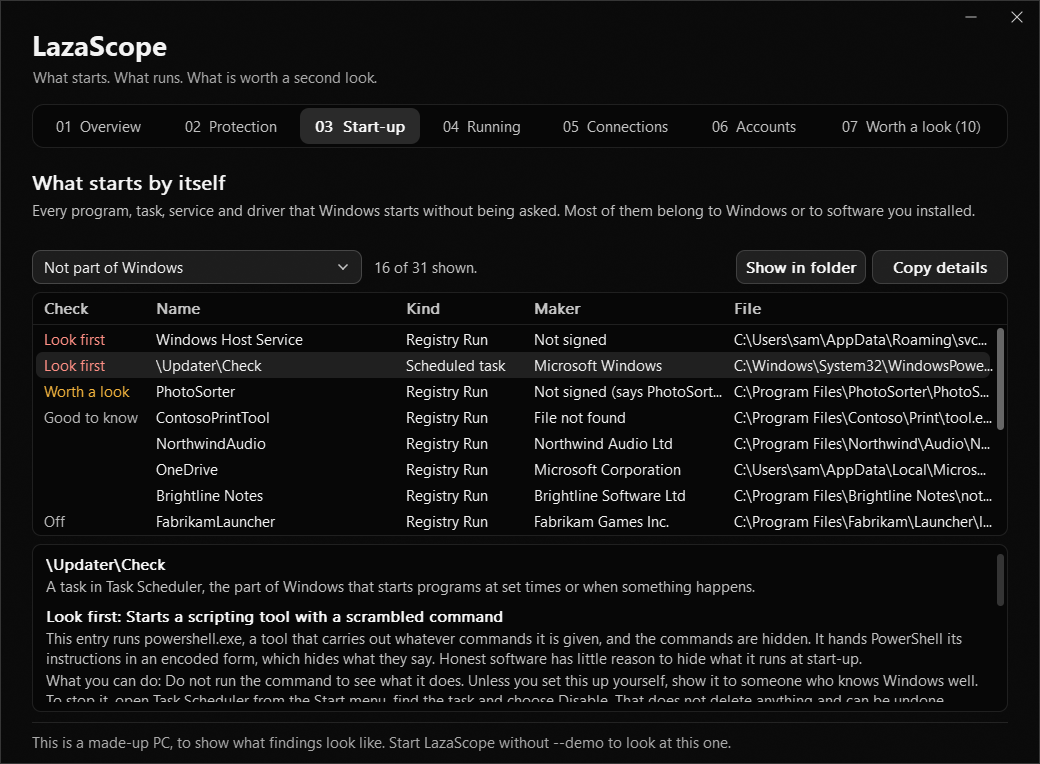
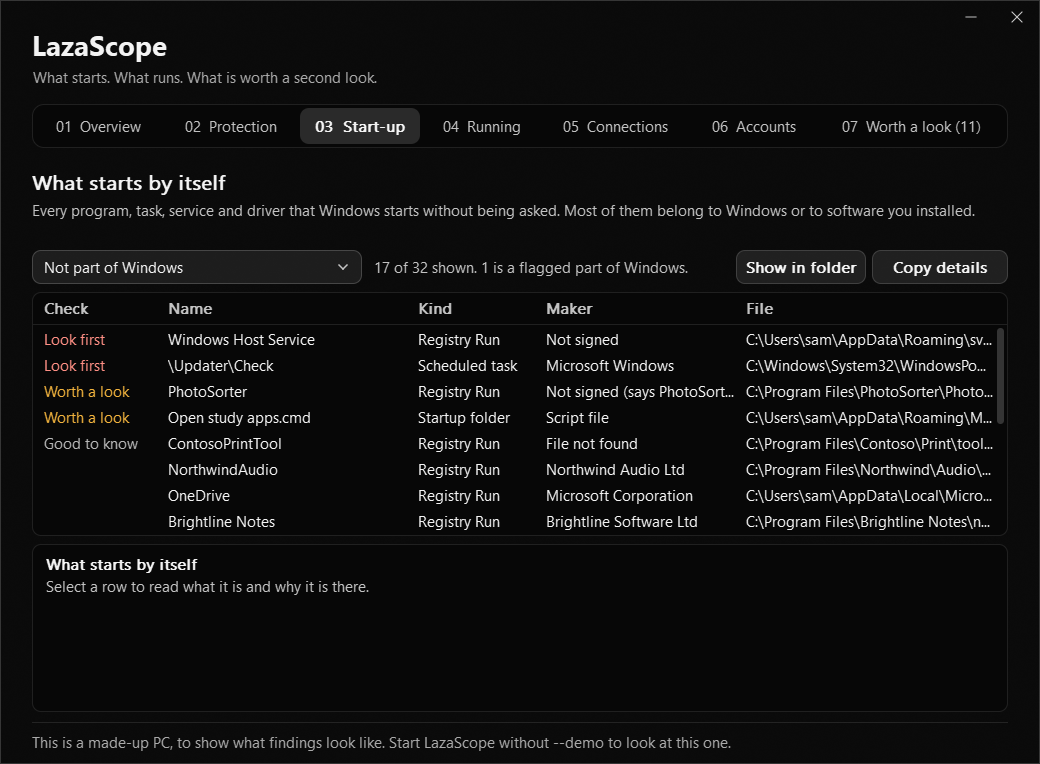
Bring the documents and screenshots up to the second round of checks
VALIDATION.md now holds the entry-for-entry comparison with Windows' own
tools, the second opinion on signatures from PowerShell, the eleven
planted items, the faults those checks found and what was done about
each, and where the testing still stops. The README, the usage guide,
the changelog and the release notes describe the script rule, the data
in the JSON report and the command-line tool's replies. The screenshots
are of the made-up PC as the final build shows it.

diff --git a/VALIDATION.md b/VALIDATION.md
@@ -4,71 +4,99 @@
 
 Both programs were compiled with Go 1.27.3 for `windows/amd64`, with CGO disabled, and run on Windows 10 Pro 22H2 (build 19045) without administrator rights.
 
+Both were then built a second time from nothing, with Go's cache of earlier work ignored (`go build -a`). The two builds of each program are byte for byte the same, which rules out a build spoiled by the PC it was made on.
+
 ### Automated tests
 
-- **The rules** are tested with made-up PCs. A healthy one, which holds a good many things that look a little odd and are fine, must produce no findings at all. About ninety single changes to it must each produce exactly the findings they should and no others. Roughly a third of those changes are cases that must stay quiet. A further test fails if any rule has no test that makes it fire.
+- **The rules** are tested with made-up PCs. A healthy one, which holds a good many things that look a little odd and are fine, must produce no findings at all. A hundred single changes to it must each produce exactly the findings they should and no others. A quarter of those changes are cases that must stay quiet. A further test fails if any of the 31 rules has no test that makes it fire.
 - **Every finding** produced in those tests is checked for its wording: it has a title, a reason and advice, it says which item it is about, and it never uses the word virus or infected. LazaScope reports reasons, not verdicts.
 - **The signature checker** is tested on real files: parts of Windows must come out as signed by Microsoft, with at least one of them found through a catalogue; the test program itself, which nobody signed, must come out as not signed; a copy of a signed program with one byte changed must fail; and a copy of a catalogue-signed program under another name must still be recognised, since a catalogue knows a file by its fingerprint and not by its name.
 - **Command reading**, which decides which file a start-up entry really runs, is tested on about forty commands: quoted and unquoted paths, paths with spaces, `rundll32`, `regsvr32`, PowerShell with and without a script file, `cmd /c start`, `conhost --headless`, `msiexec` and the forms drivers are recorded in.
-- **The pages** that the window and the report share are tested from the facts to the words on the row, and **the report** is tested for being whole in itself: no script, no link, nothing fetched. A start-up entry whose name is written to look like part of a web page must come out as text.
+- **The pages** that the window and the report share are tested from the facts to the words on the row. One test holds the overview to the lists: the number it gives for what is not part of Windows must be the number of rows the list shows under the view of that name.
+- **The report** is tested for being whole in itself: no script, no link, nothing fetched. A start-up entry whose name is written to look like part of a web page must come out as text. The data form is tested field by field, and a file name that does not end in `.html`, `.txt` or `.json` must be refused before anything is written.
 - **The made-up PC** shown by `--demo` goes through the whole program without Windows, and what it flags is fixed in a test.
-- **The window toolkit** is tested as in LazaScrub and LazaReplay, with added tests for the scrolling box of details and the three-coloured lights.
+- **A fault inside LazaScope** while it reads one part of the PC must not close the program. A test makes a reader fail half way and checks that the look carries on and that the part is reported as not read.
+- **The window toolkit** is tested as in LazaScrub and LazaReplay, with added tests for the scrolling box of details and the three-coloured lights. The views that narrow a list, and the count beside them, have tests of their own.
 
 ### Against Windows' own tools
 
-The lists were compared with what Windows itself reports on the same PC at the same time.
+Each list was compared, entry for entry, with what Windows itself reports on the same PC at the same moment: PowerShell's own commands for programs, tasks, services, drivers and start-up entries, and `netstat -ano` for the network.
 
-| List | LazaScope | Windows | Result |
+| List | LazaScope | Windows | Entry for entry |
 | --- | --- | --- | --- |
-| Scheduled tasks | 164 | 164 from `schtasks /query` | The same 164 names |
-| Automatic services | 82 | 82 from WMI | 81 in both. One is protected, and LazaScope says it could not read it. One is automatic in the registry and not in WMI |
-| Registry Run entries | 17 | 17 from `reg query` | The same entries, with the same 8 marked as switched off in Task Manager |
-| Startup folder | 1 shortcut | 1 file | The shortcut's target was read correctly |
-| Store app start-up tasks | 5 | 5 in the registry | The same, with the same on and off states |
-| Running programs | 353 | 354 from `tasklist` | The one more is the idle process, which is not a program and is left out |
-| Waiting TCP ports | 37 | 37 from `netstat -ano` | The same |
-| Open TCP connections | 90 | 90 from `netstat -ano` | The same |
-| UDP ports | 92 | 92 from `netstat -ano` | The same |
-| Disk encryption | 3 disks | 3 disks, from Explorer's own property | The same |
+| Running programs | 316 | 318 | 314 in both. The others are the comparison's own short-lived tools, started between the two readings |
+| The same, file of each program | | | The same for 162. Windows gave no answer for 148 that LazaScope found. 1 differs only in how the path is written |
+| The same, command line | | | The same for 163, different for none. LazaScope read 7 that Windows' command did not give |
+| The same, which program started it | | | Different for none |
+| TCP ports waited on | 37 | 37 | The same lines, none on one side only |
+| TCP connections in use | 69 | 69 | The same |
+| TCP connections opening or closing | 2 | 2 | The same |
+| UDP ports | 97 | 97 | The same |
+| Scheduled tasks | 164 | 164 | The same names. On or off differs for none. What each task runs is the same for all 164 |
+| Automatic services | 81 | 81 | 80 in both. One is protected, and LazaScope says it could not read it. One Windows reports with an unknown start setting. Running or not, and the file, differ for none |
+| Drivers that start by themselves | 101 | 100 | The same 100, with the same file and the same running state. The one more is a protected driver Windows' command leaves out |
+| Run entries and Startup folder | 18 | 16 | The same 16, with the same commands. The two more are in the 32-bit Run list, which the Windows command used does not read |
+| Disk encryption | 3 disks | 3 disks | The same, from Explorer's own property |
 
 Every running program had its file found, also the ones a program without administrator rights cannot open, because Windows will say where a program is by its number alone.
 
 ### Signatures
 
-The 365 different files behind the 423 start-up entries were checked in under three seconds, together with everything else. All but one came out as signed, most of them by Microsoft through a catalogue. The one unsigned file is a program built on that PC and set to start with Windows, which is exactly what the rule is for. Without the catalogue lookup, most of the Windows files in that list would have been reported as unsigned.
+The 373 different program files behind the start-up entries and the running programs were checked in under three seconds, together with everything else. 278 of them are parts of Windows, most of them signed through a catalogue. Without the catalogue lookup, those would have been reported as unsigned.
 
-Apps from the Microsoft Store bring their own catalogue, which is not in Windows' index. LazaScope looks in the app's own folder for it, and the Store apps on the test PC came out as signed.
+A sample of 165 of the files, taking every file that is not Windows' own and a spread of those that are, was given to PowerShell's own check (`Get-AuthenticodeSignature`) for a second opinion.
+
+| | Files |
+| --- | --- |
+| Same verdict from both | 162 |
+| LazaScope says signed, PowerShell says not signed | 3 |
+| LazaScope says not signed, PowerShell says signed | 0 |
+
+The three are programs of apps from the Microsoft Store. A Store app brings its own catalogue, which is not in Windows' index. LazaScope looks in the app's own folder for it and PowerShell does not.
+
+For 18 of the files the two name a different signer, and for 53 a different place. These are files that carry two signatures, one inside the file from its maker and one in a Windows catalogue. PowerShell reports the catalogue, LazaScope the one inside the file, because that one names who made it.
 
 ### Planted items
 
-`cmd/verify` plants seven harmless items that look suspicious, takes a look, and checks what was flagged. Everything it plants belongs to the account that runs it.
+`cmd/verify` plants eleven harmless items, takes a look, and checks what was said about each. Ten look suspicious and must be flagged. The eleventh does not, and must be listed and left alone. Everything it plants belongs to the account that runs it.
 
 | Planted | Flagged as |
 | --- | --- |
 | A copy of Notepad named `svchost.exe` in the temporary folder, with a line in the `Run` list | Named like a part of Windows but not where Windows keeps it. Starts from a temporary folder |
 | A copy of Notepad named `scvhost.exe`, with a line in the `Run` list | The same two, the first for a name one slip from `svchost` |
 | An unsigned program in the Downloads folder, with a line in the `Run` list | Starts from a download folder. Not signed |
+| The same program, with a line in the `RunOnce` list | The same two |
 | A `Run` line that points at a file that does not exist | Points at a file that is no longer there |
 | A `Run` line that runs the Command Prompt with its words broken up | Starts a scripting tool with a scrambled command |
 | A shortcut in the Startup folder to the unsigned program | Starts from a download folder. Not signed |
+| A batch file in the Startup folder | Starts a script by itself |
 | A copy of the Command Prompt named `lsass.exe`, running from the temporary folder | A running program named like a part of Windows. Running from a temporary folder |
+| The unsigned program, running from the Downloads folder | Running from a download folder |
+| A `Run` line for the real Notepad, in the Windows folder | Nothing, as it should be |
 
-All twelve expected flags were raised and no unexpected one. The program then removed every item and checked that none was left, and the `Run` list, the folders and the Startup folder were checked again by hand.
+All sixteen expected flags were raised and no unexpected one. The program also checks that looking changed nothing it had planted, then removes every item and checks that none is left. The `Run` and `RunOnce` lists, the folders, the Startup folder and the running programs were checked again by hand after each run, including after a run that was stopped by a fault in the check itself.
 
 Settings that belong to the whole PC were not changed for testing: antivirus, firewall, User Account Control, the hosts file, services and the sign-in settings. The rules for those are tested with made-up data.
 
 ### False alarms
 
-A normal PC must come out quiet, or nobody will trust the flags. On the test PC, which is in daily use with about 110 installed programs, LazaScope raised six findings, each checked by hand. What they were is left out of this public record, as they describe a PC in daily use.
+A normal PC must come out quiet, or nobody will trust the flags. On the test PC, which is in daily use with about 110 installed programs, LazaScope raised five findings, each checked by hand. What they were is left out of this public record, as they describe a PC in daily use.
 
-**False alarms: none.** Each of the six is a real instance of what its rule describes, and each is harmless, which is why the wording is "worth a look" and not more.
+**False alarms: none.** Each of the five is a real instance of what its rule describes, and each is harmless, which is why the wording is "worth a look" and not more. While a test tool was running from the temporary folder, a sixth appeared for it, also true.
 
 ### Faults these checks found
 
 - The planted-items check found that `echo`, a word the Command Prompt carries out itself, was taken for a program of the same name that a developer tool had put on the search path. The unsigned `echo.exe` was then reported as the file doing the work. LazaScope now knows the Command Prompt's own words, and searches the folders Windows itself would, not the ones it happened to be started with.
 - Reading the start-up list by eye found one scheduled task reported as pointing at a missing file named `\d`. The task runs `rundll32.exe /d library.dll`, and the switch had been read as the library.
 - The number that is published for the property Explorer uses to show disk encryption gave no answer on the test PC. LazaScope now asks Windows for the property by its name.
-- In the window, the list that shows only what is not part of Windows hid a flagged entry whose command ran PowerShell, which is part of Windows. A flagged row is now kept by every way of narrowing a list.
+- In the window, the list that shows only what is not part of Windows hid a flagged entry whose command ran PowerShell, which is part of Windows. A flagged row is now kept by every way of narrowing a list, and the count beside the list says so.
+- The comparison with Windows found 51 drivers listed as starting by themselves that Windows did not list. Windows comes with drivers for disk controllers a PC may not have. They are recorded as loading at boot, and beside that record Windows keeps an override that says "not on this hardware". LazaScope now reads the override, as Windows does.
+- The signature comparison found parts of Windows that were not counted as parts of Windows, because they carry a second signature in the name "Microsoft Corporation" and that was the one reported. They are now counted by where they are and who signed them, under either name.
+- Planting a batch file in the Startup folder found that nothing flagged it. A script is not a program, so the rule for unsigned programs passed it by. A rule for scripts that start by themselves was added.
+- Reading the overview against the lists found that it gave 67 start-up entries as not part of Windows where the list showed 80. The overview left out entries that are switched off and entries that name no file. Both now count the same way.
+- Reading the saved reports found that the plain-text form left a cell empty for a task that names no file, so the line ended as if something had been cut off.
+- The planted-items check failed once with nothing wrong: it compared two lists of what it had planted whose order was not fixed. It now compares them in a fixed order.
+- A report saved under a name with another ending, such as `.pdf`, was written as a web page inside a file that would not open. Such a name is now refused, with a sentence that says which endings are taken.
 
 ### Nothing leaves the PC
 
@@ -76,7 +104,23 @@ Neither program links Go's networking packages: `go list -deps` on both shows no
 
 ### Interface
 
-The seven sections were exercised on Windows 10 at 100% display scaling and drawn again at 128%, with the made-up PC and with the real one: every section button, every way of narrowing a list, choosing rows, the state while the first look is still running, and saving a report through the Save dialog. The mouse wheel is tested through the window's own message handling. The screenshots in `docs/screenshots` are of the made-up PC.
+The window was driven through its own message handling, off the visible screen, with the made-up PC and with the real one, and a picture of each state was looked at.
+
+- **Sizes.** At 70% (the smallest it goes, for a screen about 600 pixels high), 87% (a 1366 by 768 screen), 100% and 128% (the largest that fits a 1920 by 1080 screen). The first pass at 70% found "Good to know" cut short in a column and one button with no room to spare. Both were widened.
+- **Every section** and every row of the overview's five Open buttons.
+- **Every view** of the three lists that have them, including views that match nothing, which say so in words.
+- **Look again**, which takes a fresh look.
+- **Save report** in all three forms through the Save window, and with a name it must refuse.
+- **Show in folder** with no row chosen, with a row that is not about a file, and with a row that is: the first two say why nothing opens, the third opened the right folder.
+- **The keyboard alone**: Tab to a button and Space to press it, the arrow keys, Home and End in a list.
+- **Minimise and restore.**
+- **The state before the first look comes back**, in which every list says that it is still looking.
+
+The mouse wheel is tested through the window's own message handling. The screenshots in `docs/screenshots` are of the made-up PC.
+
+### The saved report
+
+The made-up PC's report was read from the first line to the last in its plain-text form. The real PC's report was read in full down to the long lists, and those lists were read by a script in all three forms of the report, looking for anything a reader would trip over: a row with the wrong number of cells, an empty cell, a leftover of formatting, a date that was never filled in, a count that does not match what it counts, a finding that points at a fact that is not there. After the fix for the empty cell it found nothing.
 
 ## GitHub checks
 
@@ -85,12 +129,13 @@ The included workflow runs the platform-neutral tests on Linux with the race det
 ## Where the testing stops
 
 - Tested on one PC, with Windows 10 in English. It was not run on Windows 11, on a PC joined to a work domain, or on Windows in another language.
-- It was not run with administrator rights. What it then reads in addition (Defender's exclusions, other accounts' command lines, protected services) has not been seen working.
+- It was not run with administrator rights. What it then reads in addition (Defender's exclusions, other accounts' command lines, protected services) has not been seen working, and neither has the button that starts it again with those rights.
 - It was not tried against real malware. The planted items imitate the signs, not the behaviour.
 - The rules for antivirus, firewall, the hosts file, Defender's exclusions, Remote Desktop, the Guest account, automatic sign-in, debugger settings, `AppInit_DLLs`, the sign-in settings, a changed signature and an unsigned program waiting for connections were tested with made-up data only. On the test PC all of those were in their normal state, so only the normal state was read from a real PC.
 - No PC with another antivirus than Microsoft Defender was available, and disk encryption was read on one PC only.
 - The start-up list was compared with Windows' own tools, not with Sysinternals Autoruns, which lists many more places than LazaScope reads.
-- Two buttons were not pressed in testing. **Copy details** replaces whatever is on the clipboard of the PC in use, and Windows gives a program no clipboard of its own to practise on, so its test only runs when asked for (`LAZASCOPE_TEST_CLIPBOARD=1`). **Show in folder** opens an Explorer window. Both use the same few Windows calls as LazaScrub and LazaBinder.
+- **Copy details** was not pressed. It replaces whatever is on the clipboard of the PC in use, and Windows gives a program no clipboard of its own to practise on, so its test only runs when asked for (`LAZASCOPE_TEST_CLIPBOARD=1`). It uses the same few Windows calls as LazaScrub and LazaBinder.
+- LazaScope checks signatures on programs only. A script can carry one too, and almost none does. A signed script is treated like any other script.
 - The window draws its own controls, so a screen reader cannot read them. The command-line tool and the report give the same information as text.
 - The dialogs for saving a file, and the boxes that report an error, are the standard ones of Windows and are not dark.
 - A look is one moment. Whether LazaScope keeps up with a PC that is changing fast was not measured.

diff --git a/README.md b/README.md
@@ -27,9 +27,9 @@ The pictures on this page show a made-up PC, which LazaScope displays when start
 | Connections | Each open connection and each port a program is waiting on, with the program it belongs to |
 | Protection | Antivirus, firewall, User Account Control, Windows updates, disk encryption, Secure Boot and the hosts file |
 | Accounts and remote access | Administrator accounts, Guest, automatic sign-in, Remote Desktop and remote-control software |
-| Worth a look | Thirty written rules. Every flag comes with the reason and with what you can do about it |
+| Worth a look | Thirty-one written rules. Every flag comes with the reason and with what you can do about it |
 | Signatures, checked properly | Who signed each file, including the many Windows files whose signature is kept in a separate catalogue |
-| Report | One self-contained web page, plain text or JSON, to keep or to send to someone who is helping you |
+| Report | One self-contained web page, plain text, or JSON with every fact as it was read, to keep or to send to someone who is helping you |
 | Demo | `--demo` shows a made-up PC, so you can see what findings look like without having any |
 | Command line | Run the same engine from a terminal with `lazascope-cli.exe` |
 | Dark, see-through window | Black, with rounded controls and a blurred view of what is behind it. LazaScope draws it itself, with no web view or interface toolkit |
@@ -51,6 +51,7 @@ Every flag comes from a written rule, so LazaScope can always say why. These are
 | It runs from a temporary or download folder | Installed software lives in Program Files. Malware often runs from folders any program may write to |
 | It is named like a part of Windows but is in the wrong folder | A classic disguise, such as a fake `svchost.exe` |
 | A start-up entry runs a scripting tool with a scrambled command | Attackers hide their instructions this way |
+| A script starts by itself from outside Windows and Program Files | Scripts are almost never signed, and anything able to change the file can rewrite it |
 | A "debugger" is set for a normal program | A trick that swaps one program for another |
 | A task or service runs from a user's own folder | Unusual for real software, and the file can be swapped by any program that user runs |
 | The hosts file sends names somewhere else | That file can silently redirect or block websites |
@@ -111,6 +112,7 @@ LazaScope does not include or call Microsoft's Sysinternals tools or any other p
 - Without administrator rights it cannot read the list of folders Microsoft Defender skips, the command lines and accounts of programs that run as other accounts, or a few protected services. It says so on the page where each belongs. **Look again as administrator** reads these too.
 - Signatures are checked without going online. A certificate that this PC has never met before can therefore show as not trusted, and a certificate that was withdrawn after signing is not noticed.
 - Addresses are shown as numbers. Looking their names up would mean sending them to a name server, and nothing leaves the PC.
+- Signatures are checked on programs. A script can carry one too, though almost none does, and LazaScope does not look for it.
 - It reads what Windows reports. A setting that Windows reports wrongly is shown wrongly.
 - Tested on Windows 10. See [VALIDATION.md](VALIDATION.md) for what was checked and where the checking stops.
 - The executables are unsigned, so Windows SmartScreen may ask for confirmation the first time. For the same reason LazaScope would flag a copy of itself that is set to start with Windows.
@@ -127,7 +129,7 @@ cd LazaScope
 
 The results are `dist\LazaScope.exe` and `dist\lazascope-cli.exe`. The build script runs `go vet` and the tests, builds both programs, then runs the check described below.
 
-The last step, `cmd/verify`, plants seven harmless items that look suspicious in your own account, such as a copy of Notepad named `svchost.exe` in the temporary folder with a line in your `Run` list. It checks that LazaScope flags every one for the right reason, removes them all and checks that none is left. It touches nothing outside your own account and needs no administrator rights.
+The last step, `cmd/verify`, plants eleven harmless items in your own account. Ten look suspicious, such as a copy of Notepad named `svchost.exe` in the temporary folder with a line in your `Run` list, and one does not. It checks that LazaScope flags each of the ten for the right reason and leaves the eleventh alone, removes them all and checks that none is left. It touches nothing outside your own account and needs no administrator rights.
 
 The project uses the Go standard library and native Windows APIs. No third-party Go modules are required. The icon and the Windows resources are generated by `tools/mkres`, which is also plain Go.
 
@@ -148,6 +150,8 @@ LazaScope has three parts that know nothing of each other's insides.
 **The signature checker** asks Windows who signed each of those files. Many of Windows' own files carry no signature inside them: their fingerprints are listed in signed catalogues. A check that skips the catalogues calls most of Windows unsigned, and every rule built on it would raise false alarms, so the checker looks in both places. It remembers each answer, which is why a few hundred files take a second or two.
 
 **The rules** are plain functions over the collected facts. They call nothing and read nothing, so each one is tested with made-up PCs, including the cases where it must stay quiet. A rule returns a finding with a title, the reason, what to do and the evidence.
+
+A fault inside one collector does not end the look. That part is left out, its light shows a ring, and the page says that it could not be read and why.
 
 The window and the report show the same pages, built once from the facts and the findings.
 

diff --git a/docs/USAGE.md b/docs/USAGE.md
@@ -41,7 +41,7 @@ Each of these sections is a list with a box of details under it.
 
 - Select a row to read what it is, where it is recorded, who made it and, if a rule flagged it, why.
 - The first column is coloured: red for **Look first**, amber for **Worth a look**, grey for **Good to know**. On the Protection and Accounts pages a green **OK** means the setting is as it should be, and **Not known** means Windows would not say.
-- The list above the table narrows what is shown. A flagged row is never hidden by it.
+- The list above the table narrows what is shown, and the count beside it says how many rows that leaves. A flagged row is never hidden: under **Not part of Windows**, a part of Windows that a rule flagged stays in the list, and the count says so. When a view matches nothing, the box of details says what that means.
 - **Show in folder** opens Explorer at the file the row is about.
 - **Copy details** puts the text of the details box on the clipboard.
 
@@ -58,6 +58,7 @@ Each of these sections is a list with a box of details under it.
 | Word | Meaning |
 | --- | --- |
 | Maker | The name on the file's digital signature, which is a maker's seal that breaks if the file is changed. "Not signed (says X)" means the file has no seal and only claims to come from X |
+| Script file | Shown as the maker of a script: a text file of commands, such as a batch file. LazaScope checks signatures on programs only, and scripts almost never carry one |
 | Registry Run | A line in the registry, Windows' settings database, that starts a program each time someone signs in |
 | Scheduled task | An entry in Task Scheduler, the part of Windows that starts programs at set times or when something happens |
 | Service | A background program that Windows starts by itself and keeps running |
@@ -90,7 +91,7 @@ Under the list, **What could not be read** names everything LazaScope had no acc
 | --- | --- |
 | Web page (`.html`) | Reading, printing, or sending to someone who is helping you. It opens in any browser, holds no scripts and loads nothing from the internet |
 | Plain text (`.txt`) | Pasting into a message or a forum post |
-| Data (`.json`) | Other tools |
+| Data (`.json`) | Other tools. It holds the findings and, under `facts`, every start-up entry, running program, connection and protection setting as it was read. Each finding has a `ref` that names the fact it is about |
 
 The report starts with the five lights and everything worth a look, then lists every fact LazaScope read. In the web page, select any row to open its details.
 
@@ -102,6 +103,8 @@ To make a report without opening the window, for instance when someone is guidin
 .\LazaScope.exe --report "C:\Users\you\Desktop\report.html"
 ```
 
+The ending of the name chooses the kind, as in the Save dialog. A name with any other ending is refused, so that a report never lands in a file that will not open.
+
 ## Administrator rights
 
 LazaScope works without administrator rights and never asks for them by itself. Without them, Windows keeps a few things back:
@@ -110,7 +113,9 @@ LazaScope works without administrator rights and never asks for them by itself. 
 - the command lines and accounts of programs that run as other accounts,
 - a few protected services.
 
-Each page says what it could not read, and **07 Worth a look** lists it all. **Look again as administrator** on the Overview reads these too. Windows asks for your permission first, and if you say no, nothing changes.
+Each page says what it could not read, and **07 Worth a look** lists it all. **Look again as administrator** on the Overview reads these too. Windows asks for your permission first, and if you say no, nothing changes and the line at the foot of the window says so. Once LazaScope has the rights, the button reads **Running as administrator**.
+
+If User Account Control is set to never notify, Windows gives the rights without asking. LazaScope flags that setting under 02 Protection.
 
 With or without administrator rights, LazaScope only reads.
 
@@ -135,8 +140,11 @@ With or without administrator rights, LazaScope only reads.
 | `network` | Lists the connections and the waiting ports |
 | `protection` | Shows the protection settings, the administrators and the hosts file |
 | `sign <file>...` | Says who signed each file, where the signature was found and whether it holds |
-| `rules` | Lists every rule and why it exists |
+| `rules` | Lists every rule and why it exists. `--markdown` prints the table in [The rules](RULES.md) |
 | `version` | Prints the version |
+| `help` | Prints the list of commands |
+
+A command that is given an option or a file name it does not take says so and does nothing. The tool ends with 0 when it worked, 1 when what it was asked could not be done, 2 when the command itself was wrong, and 3 if it stopped on a fault of its own.
 
 `scan` and `report` take `--demo` to show the made-up PC. The exit code is 0 on success and 1 when something could not be done.
 

diff --git a/CHANGELOG.md b/CHANGELOG.md
@@ -11,8 +11,9 @@ First version.
 - List the network connections and the ports programs wait on, each with its program and how far its other end is.
 - Read the protection of the PC: antivirus and firewall as Windows Security reports them, Microsoft Defender's settings and exclusions, User Account Control, the last installed update, disk encryption, Secure Boot, Remote Desktop, the Administrators group, the hosts file and remote-control software.
 - Say who signed every file, looking both inside the file and in Windows' catalogues and the catalogues of Store apps, with a memory so that hundreds of files take seconds.
-- Flag what is worth a look with thirty written rules, each with its reason and what to do.
-- Save a report as one self-contained web page, as plain text or as JSON.
+- Flag what is worth a look with thirty-one written rules, each with its reason and what to do.
+- Save a report as one self-contained web page, as plain text, or as JSON that carries every fact as it was read, with a reference from each finding to the fact it is about.
+- Say so in words when something could not be read, when a view of a list matches nothing, and when a fault inside LazaScope stopped one part of a look. The rest of the look carries on.
 - Show a made-up PC with `--demo`.
-- Include a command-line tool, a check that plants harmless items and confirms each is flagged, Windows build and release automation, and tests.
+- Include a command-line tool, a check that plants eleven harmless items and confirms that ten are flagged and one is left alone, Windows build and release automation, and tests.
 - Read only, with no network client, and without needing administrator rights.

diff --git a/docs/releases/v1.0.0.md b/docs/releases/v1.0.0.md
@@ -9,9 +9,9 @@ First public release of LazaScope, a portable Windows utility that shows what a 
 - Every running program as a family tree, with the command that started it.
 - Every network connection and waiting port, with the program it belongs to.
 - The protection of the PC: antivirus, firewall, User Account Control, updates, disk encryption, Secure Boot, the hosts file, administrator accounts, Remote Desktop and remote-control software.
-- Thirty written rules that flag what is worth a look, each with its reason and what you can do.
+- Thirty-one written rules that flag what is worth a look, each with its reason and what you can do.
 - Signatures checked both inside files and in Windows' catalogues, so that Windows' own files are not mistaken for unsigned ones.
-- A report as one self-contained web page, as plain text or as JSON.
+- A report as one self-contained web page, as plain text, or as JSON that carries every fact as it was read.
 - A made-up PC to explore with `--demo`.
 - The same engine for scripts with `lazascope-cli.exe`.
 

diff --git a/CONTRIBUTING.md b/CONTRIBUTING.md
@@ -27,7 +27,7 @@ go test ./internal/...
 
 Format Go changes with `gofmt`. On Windows, run `build.cmd` before submitting a change. It regenerates the resources, runs `go vet` and all the tests, builds both programs and runs `cmd/verify`.
 
-`cmd/verify` plants seven harmless items in your own account (lines in your `Run` list, files in your temporary and Downloads folders, a shortcut in your Startup folder and one waiting program), checks that each is flagged, and removes them again. It touches nothing outside your account and needs no administrator rights.
+`cmd/verify` plants eleven harmless items in your own account (lines in your `Run` and `RunOnce` lists, files in your temporary and Downloads folders, a shortcut and a batch file in your Startup folder and two waiting programs), checks that ten are flagged for the right reason and the eleventh is left alone, and removes them again. It touches nothing outside your account and needs no administrator rights.
 
 ### Layout
 
